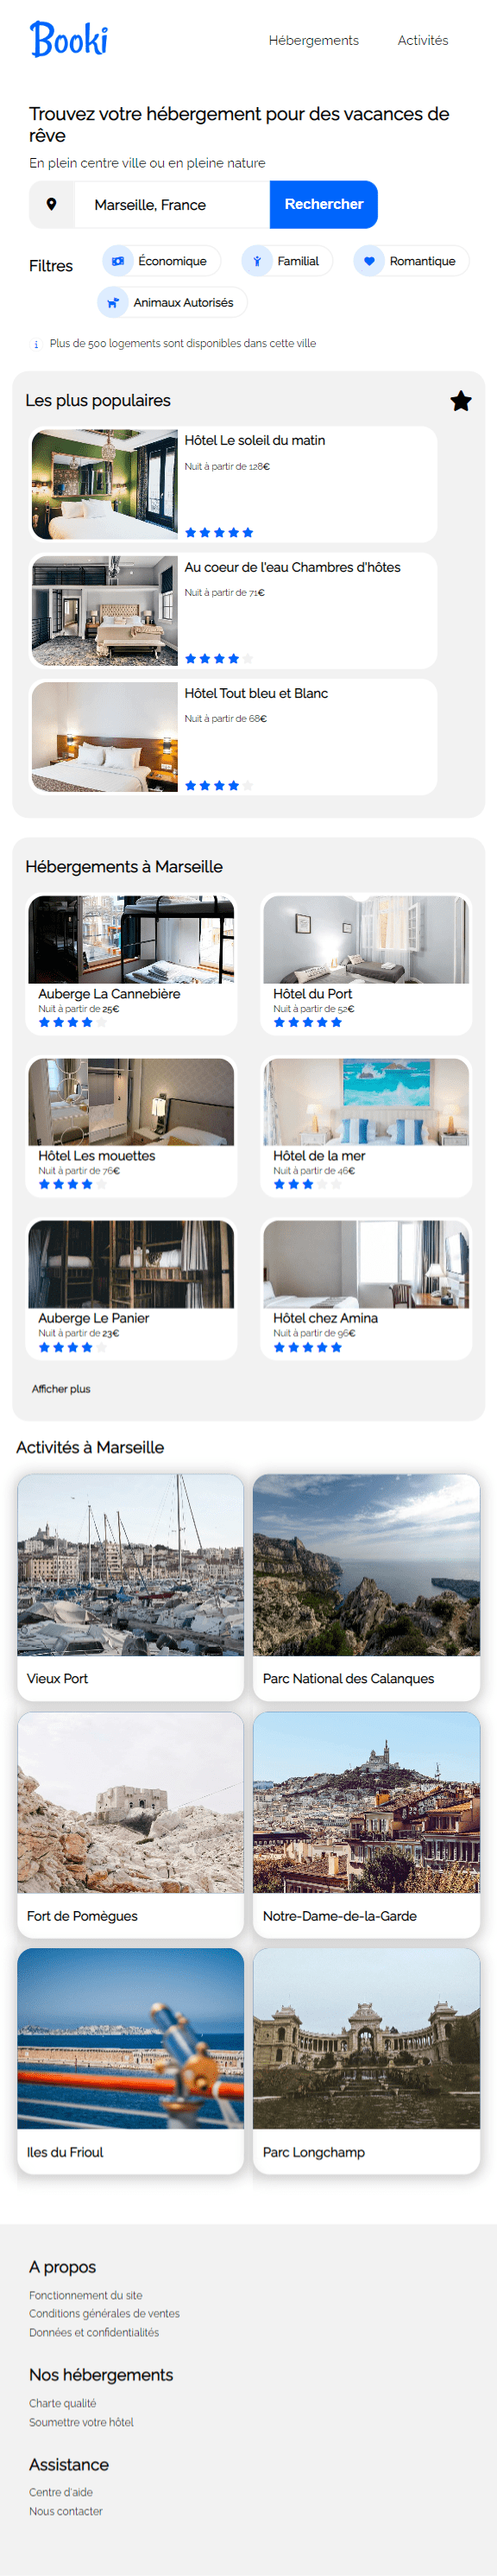
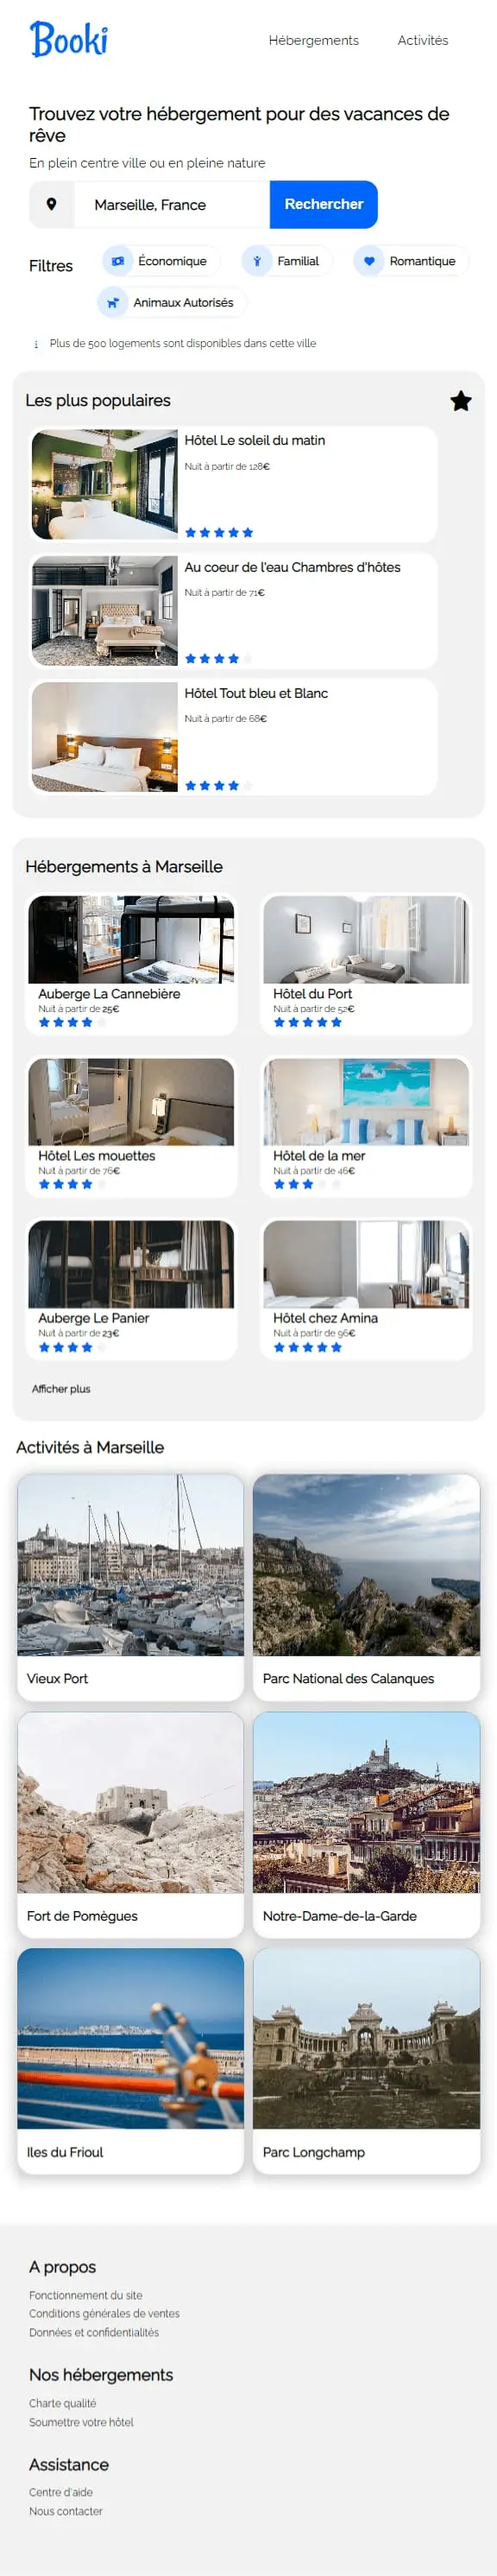
Kept resizing and compressing images to improve performance. Also set a style to the error components.

diff --git a/src/styles/3.Components/_errorLayout.scss b/src/styles/3.Components/_errorLayout.scss
@@ -1,0 +1,61 @@
+.error-layout {
+    height: calc(100vh - 150px);
+    display: flex;
+    justify-content: center;
+    align-items: center;
+    flex-direction: column;
+    gap: 25px;
+    font-family: "main-fonts";
+    h1 {
+        font-family: "black-fonts";
+    }
+    .gradient {
+        border: 3px solid transparent;
+        border-radius: 4px;
+        width: 185px;
+        transition: 0.2s;
+        // transform: translateX(10%);
+        // opacity: 0;
+        &:hover {
+            background: linear-gradient($clr-1, $clr-1),
+                linear-gradient($clr-2, $clr-2);
+            background-clip: padding-box, border-box;
+            background-origin: border-box;
+            translate: 0px -3px;
+            scale: 1.05 0.95;
+            button {
+                background: $clr-2;
+                background-clip: text;
+            }
+        }
+        button {
+            padding: 8px 15px;
+            width: 100%;
+            height: 100%;
+
+            font-family: "black-fonts";
+
+            display: flex;
+            justify-content: center;
+            align-items: center;
+
+            border: none;
+            background: linear-gradient(
+                90deg,
+                $clr-2-op3,
+                $clr-2,
+                $clr-2-op2,
+                $clr-2,
+                $clr-2-op5,
+                $clr-2,
+                $clr-2-op2
+            );
+            background-position: 0%;
+            background-size: 1000%;
+            -webkit-text-fill-color: transparent;
+            -webkit-background-clip: text;
+            background-clip: text;
+            animation: backgroundTitleAnim 20s linear alternate infinite;
+        }
+    }
+}

diff --git a/app/project/[id]/error.tsx b/app/project/[id]/error.tsx
@@ -1,5 +1,6 @@
 "use client"; // Error components must be Client Components
 
+import GradientBorder from "@/components/ui/GradientBorder";
 import { useEffect } from "react";
 
 export default function Error({
@@ -15,16 +16,20 @@ export default function Error({
     }, [error]);
 
     return (
-        <div>
+        <div className="error-layout">
+            <h1>Oops !</h1>
             <h2>Something went wrong on the project page!</h2>
-            <button
-                onClick={
-                    // Attempt to recover by trying to re-render the segment
-                    () => reset()
-                }
-            >
-                Try again
-            </button>
+            <p>{error.message}</p>
+            <GradientBorder>
+                <button
+                    onClick={
+                        // Attempt to recover by trying to re-render the segment
+                        () => reset()
+                    }
+                >
+                    Try again
+                </button>
+            </GradientBorder>
         </div>
     );
 }

diff --git a/app/project/[id]/page.tsx b/app/project/[id]/page.tsx
@@ -6,9 +6,14 @@ type Props = {
     params: { id: string };
 };
 
-export async function generateMetadata({ params }: Props): Promise<Metadata> {
-    const projectId = parseInt(params.id);
+const getRightProject = (id: string) => {
+    const projectId = parseInt(id);
     const project = projectsData.find((project) => project.id === projectId);
+    return project;
+};
+
+export async function generateMetadata({ params }: Props): Promise<Metadata> {
+    const project = getRightProject(params.id);
     return {
         title: `Hadrien Smet | ${project?.name}`,
         description: project?.description,
@@ -24,8 +29,8 @@ export async function generateMetadata({ params }: Props): Promise<Metadata> {
 }
 
 const Project = async ({ params }: Props) => {
-    const projectId = parseInt(params.id);
-    const project = projectsData.find((project) => project.id === projectId);
+    const project = getRightProject(params.id);
+    if (project === undefined) throw Error("This project does not exist");
     return <>{project && <PageProject project={project} />}</>;
 };
 

diff --git a/src/components/pageProject/PageProject.tsx b/src/components/pageProject/PageProject.tsx
@@ -34,10 +34,10 @@ const handleTitle = (project: ProjectInterface) => {
     }
     return { mainTitle, detailsTitle };
 };
-
 const PageProject = ({ project }: ProjectAsProps) => {
     const { titleRef } = usePageOnScroll();
     const { mainTitle, detailsTitle } = handleTitle(project);
+    // if (project.id === undefined) throw Error("This project does not exist");
     return (
         <main className="project-page">
             <BackgroundLayout>

diff --git a/src/styles/index.scss b/src/styles/index.scss
@@ -6,6 +6,7 @@
 @import "./2.Utils/variables";
 /************************************************************************************************/
 @import "./3.Components/backgroundLayout";
+@import "./3.Components/errorLayout";
 @import "./3.Components/footer";
 @import "./3.Components/header";
 @import "./3.Components/navigation";

diff --git a/app/error.tsx b/app/error.tsx
@@ -15,7 +15,7 @@ export default function Error({
     }, [error]);
 
     return (
-        <div>
+        <div className="error-layout">
             <h2>Something went wrong!</h2>
             <button
                 onClick={
